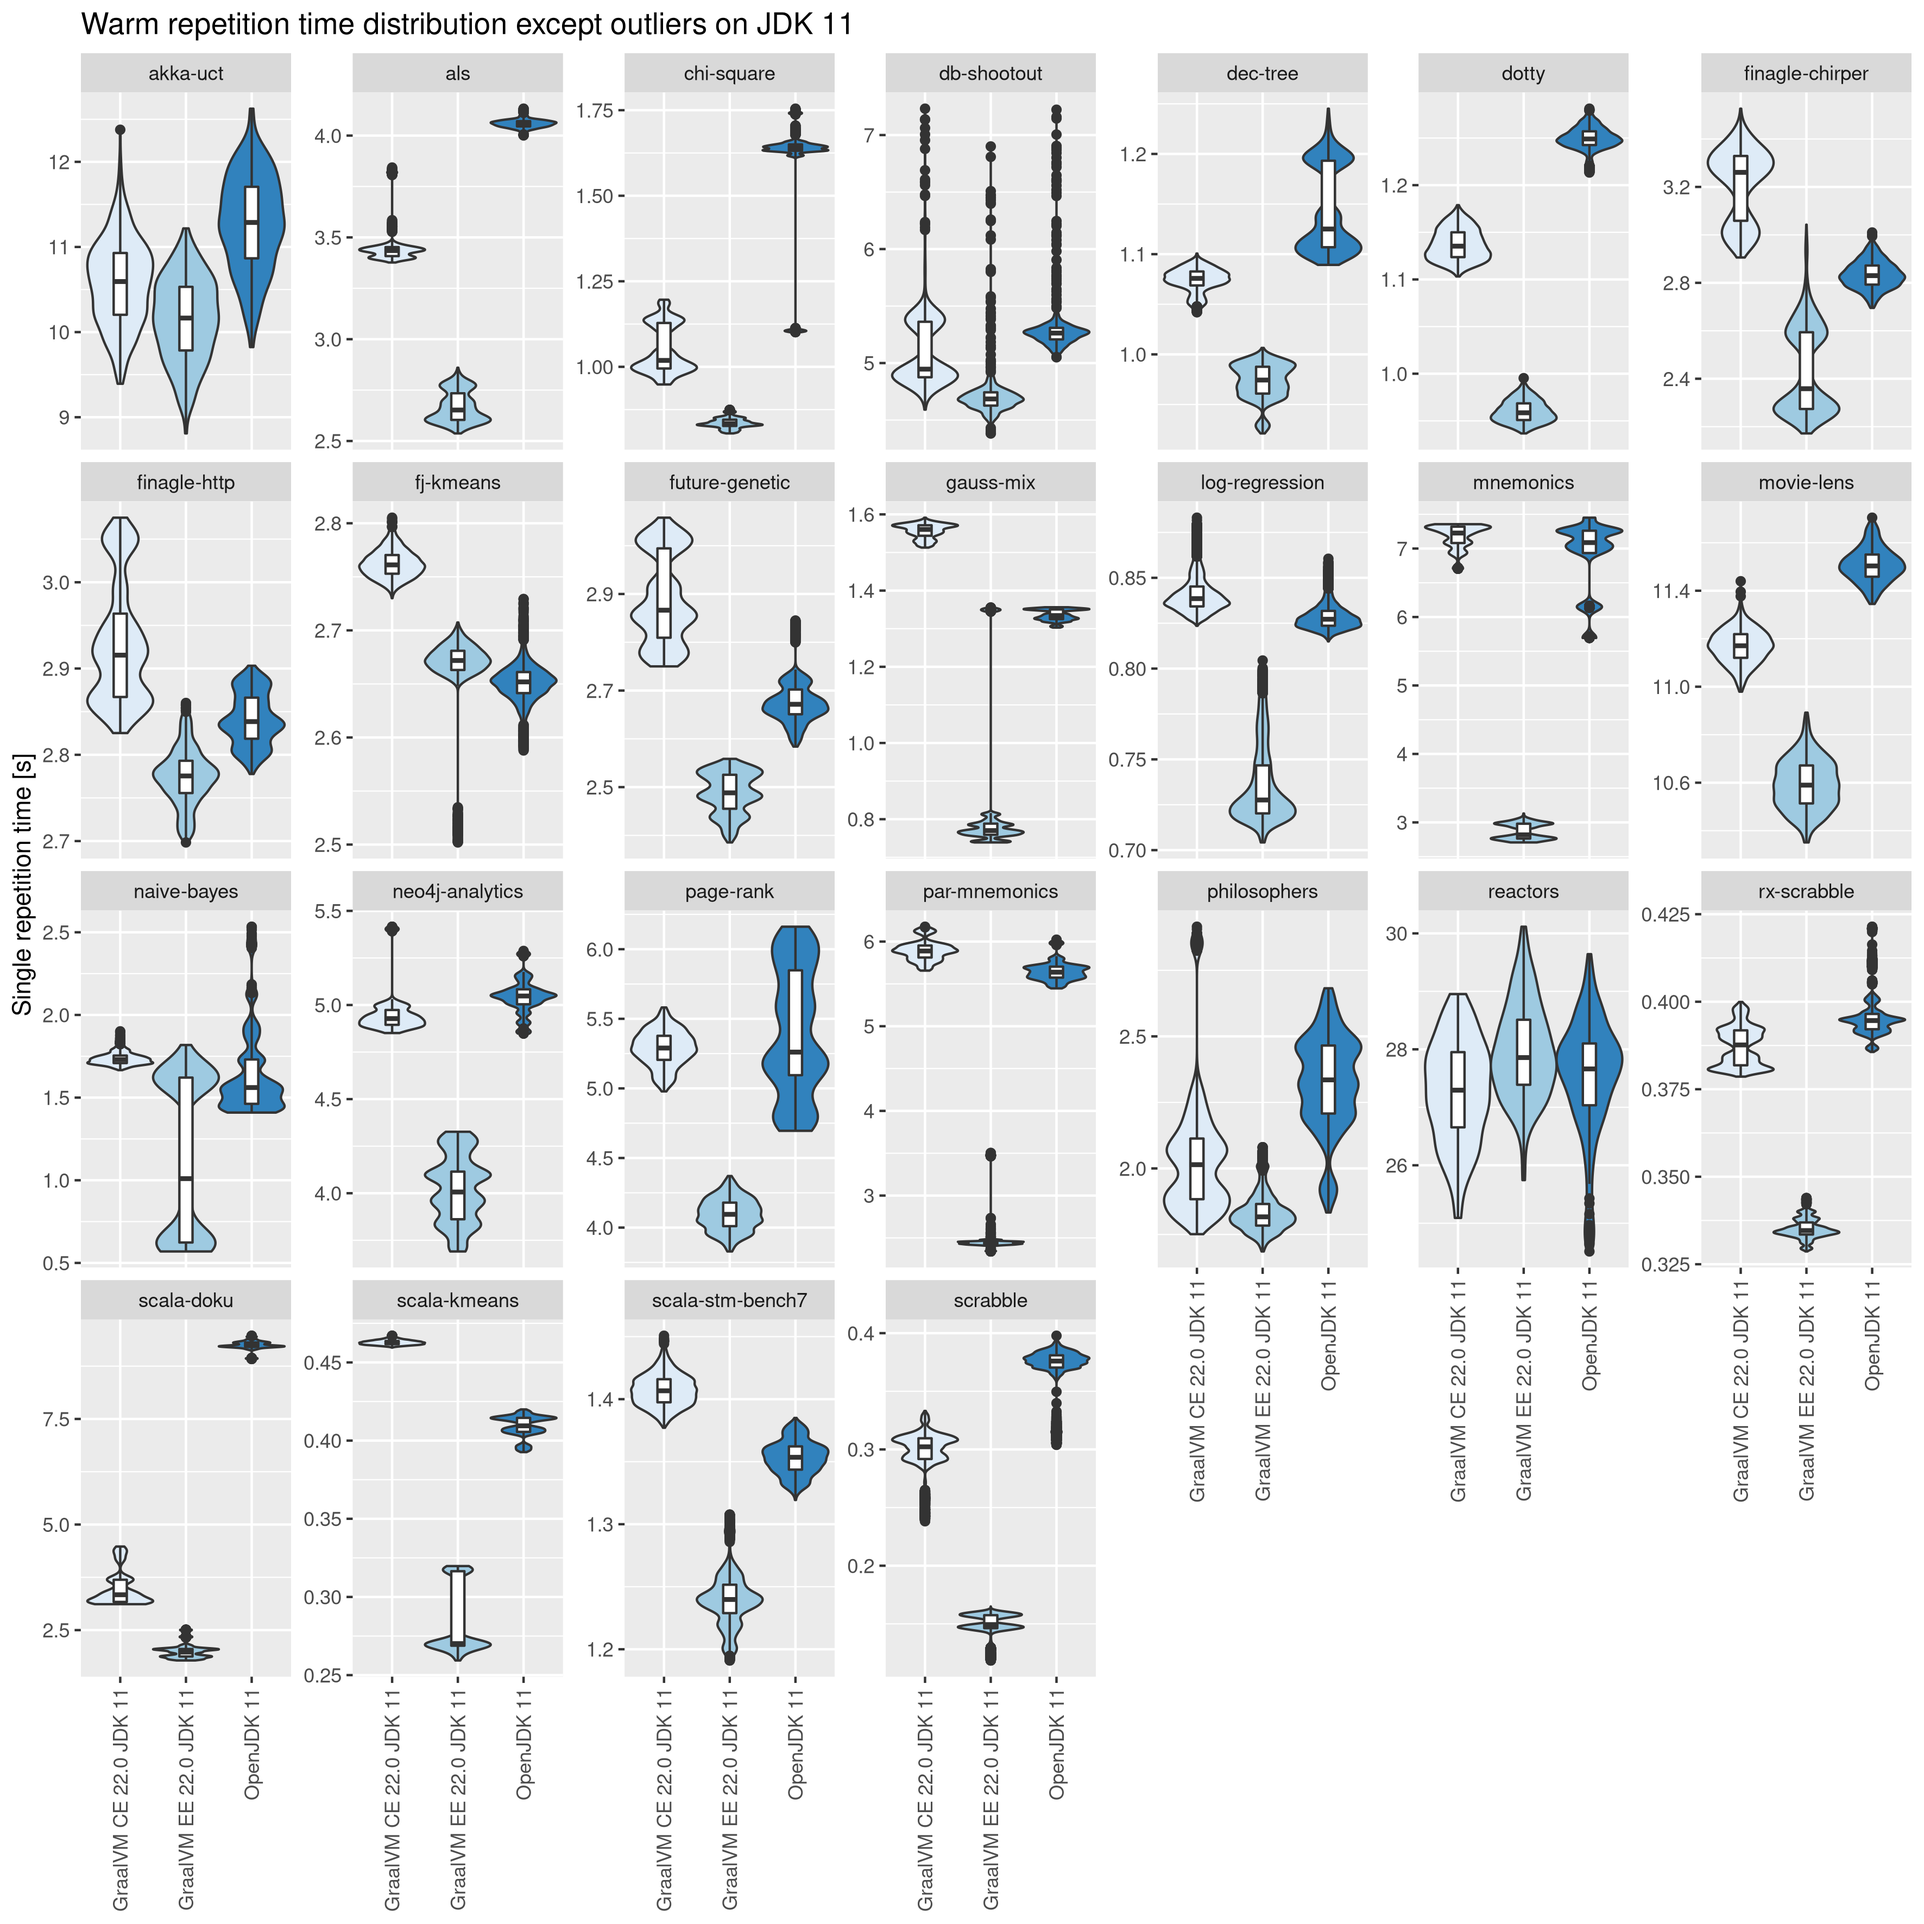
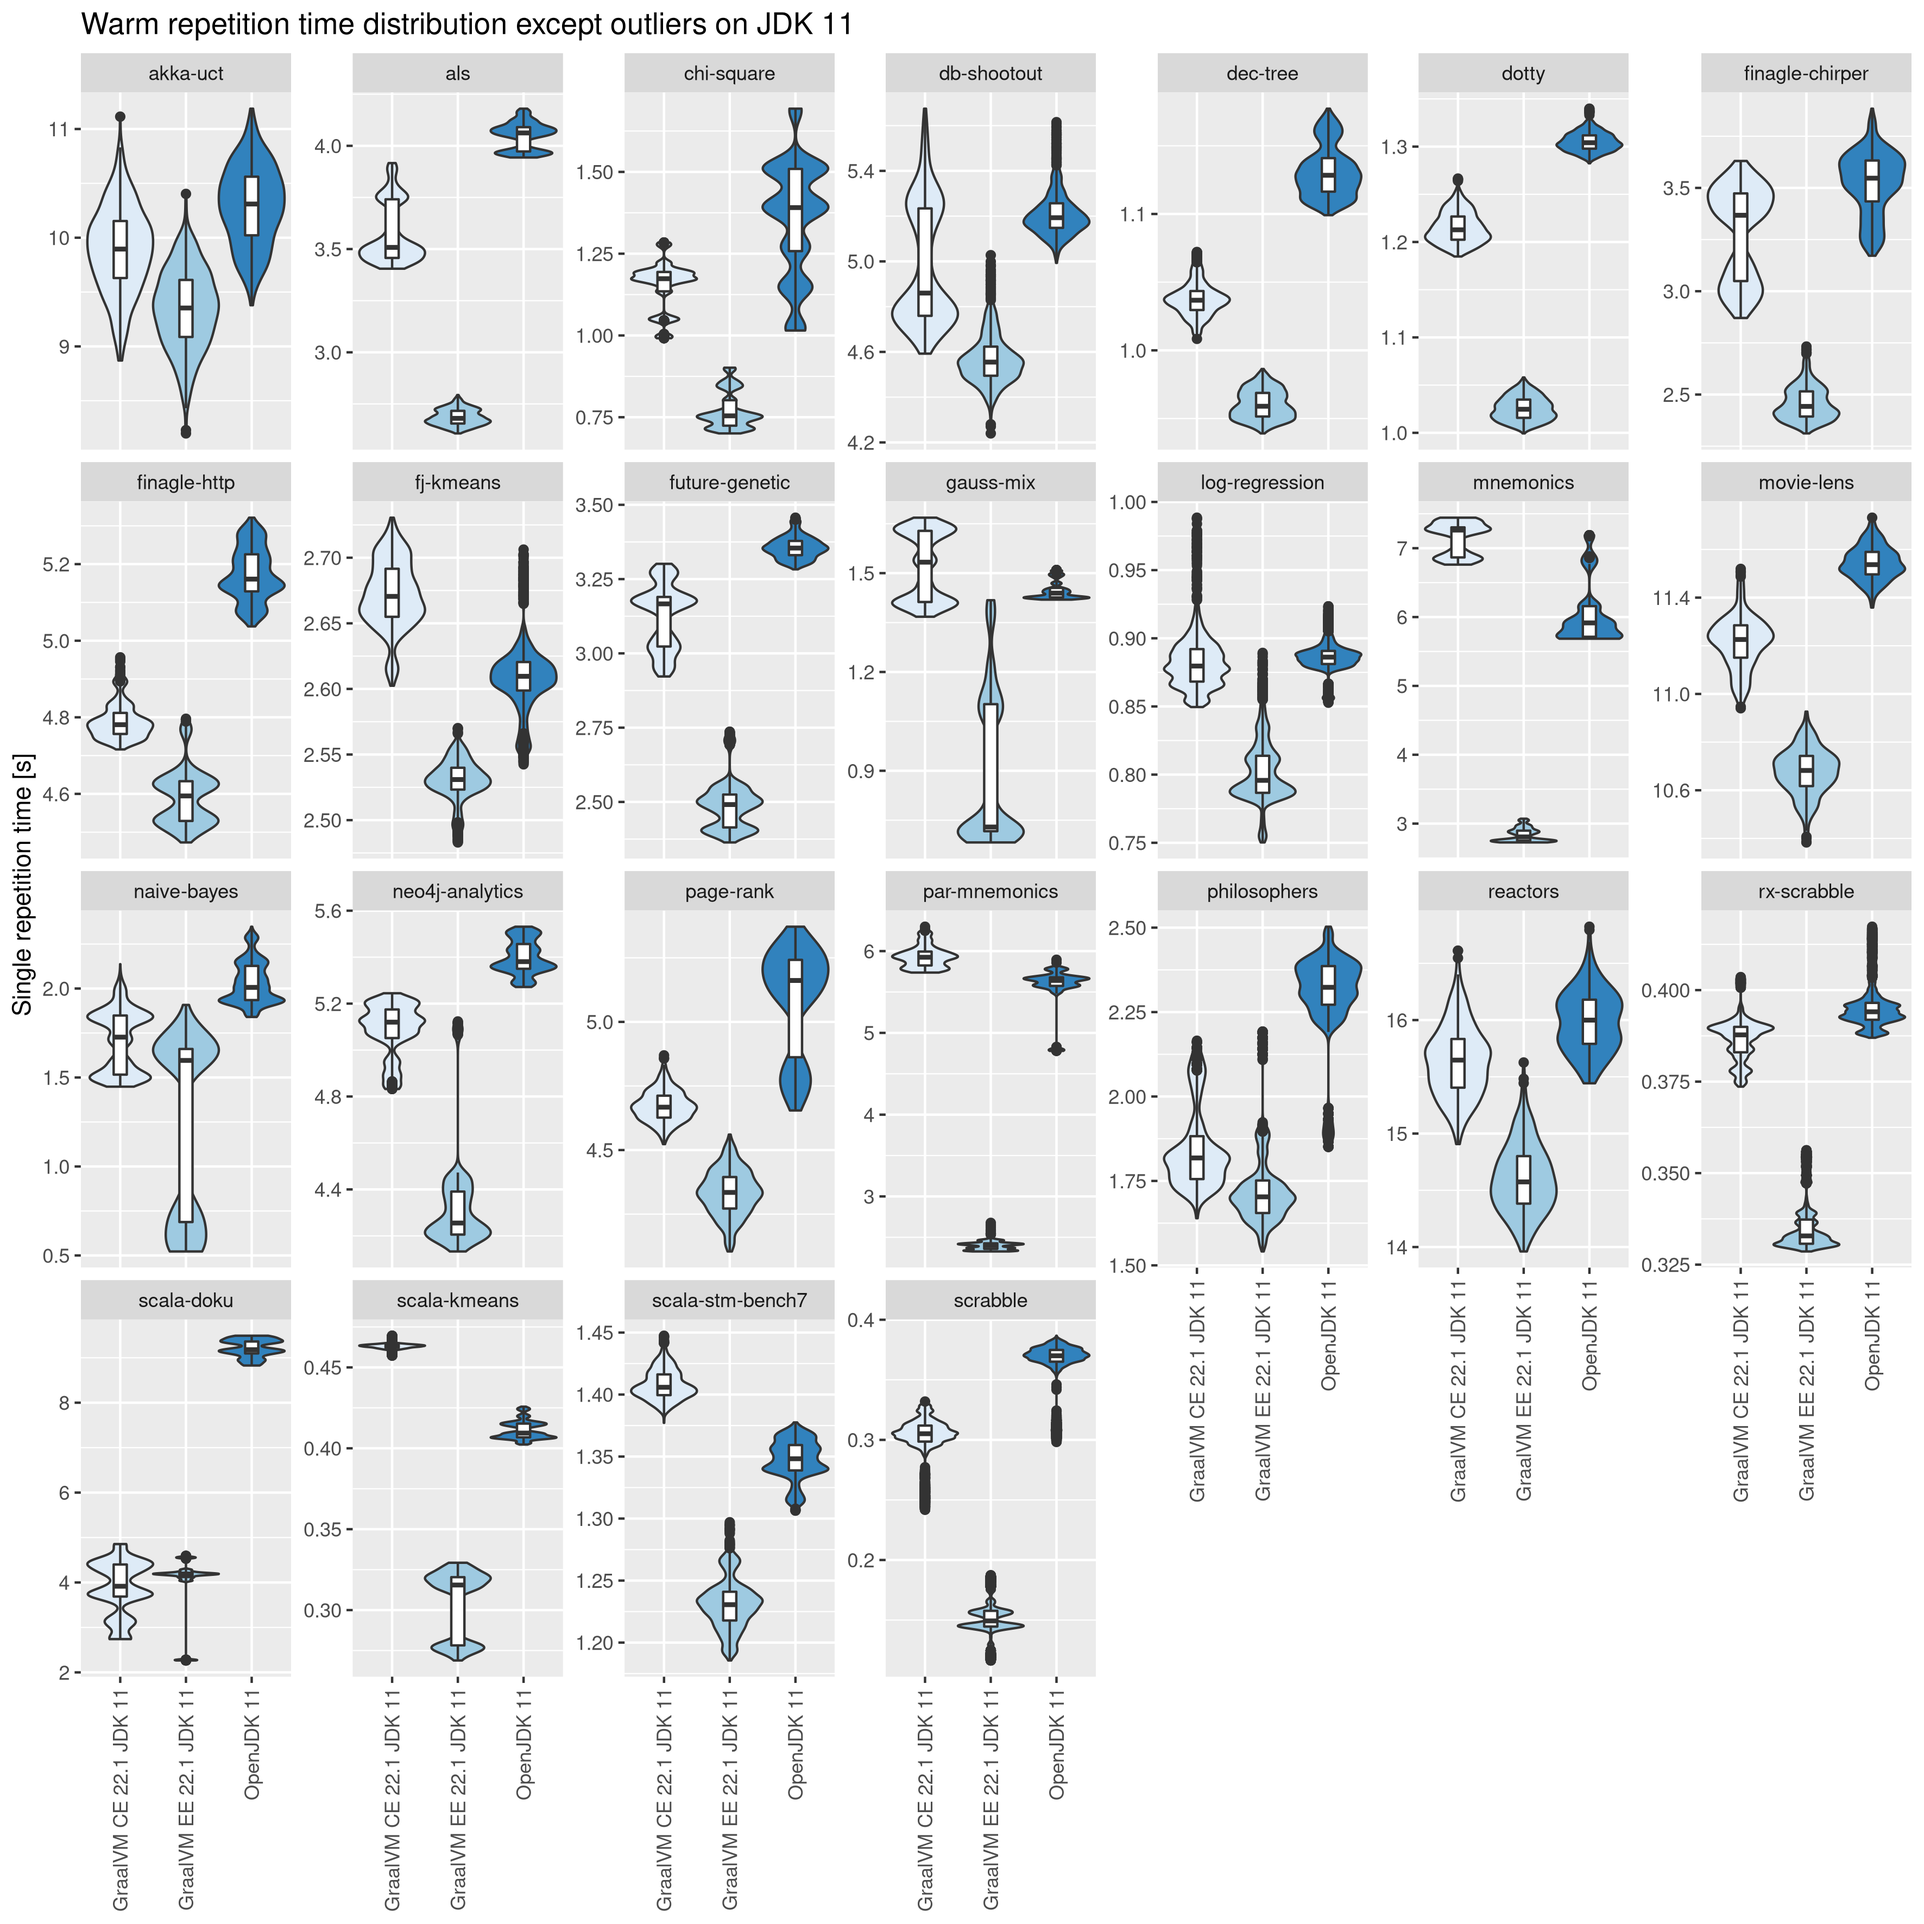
Updated results for GraalVM 22.1.0

diff --git a/README.md b/README.md
@@ -13,9 +13,9 @@ Please note that performance measurements depend on many complex factors and the
 
 ### Measurement information
 
-The current measurements were collected with Renaissance `e3c0a0a` on multiple
+The current measurements were collected with Renaissance `3eef1364a142426f508c29d1e6604b1ba3d7e23e` on multiple
 8 core Intel Xeon E5-2620 v4 machines at 2100 GHz with 64 GB RAM,
-running bare metal Fedora Linux 31 with kernel 5.3.8.
+running bare metal Fedora Linux 35 with kernel 5.16.11.
 
 Each benchmark was run multiple times, each run was executed in a new JVM instance and terminated after 10 minutes.
 The durations of all repetitions were collected and are included in the data,
@@ -31,32 +31,32 @@ The JVM implementations referenced in the results are:
 
 - **OpenJDK** is the GraalVM Community Edition JVM implementation run with `-XX:-EnableJVMCI -XX:-UseJVMCICompiler` to force the use of the default OpenJDK JIT compiler.
 
-- **GraalVM CE** is GraalVM Community Edition 22.0.0-dev.
+- **GraalVM CE** is GraalVM Community Edition 22.1.0.
 ```
 > java -version
-openjdk version "11.0.14" 2022-01-18
-OpenJDK Runtime Environment GraalVM CE 22.0.0-dev (build 11.0.14+8-jvmci-22.0-b03)
-OpenJDK 64-Bit Server VM GraalVM CE 22.0.0-dev (build 11.0.14+8-jvmci-22.0-b03, mixed mode, sharing)
+openjdk version "11.0.15" 2022-04-19
+OpenJDK Runtime Environment GraalVM CE 22.1.0 (build 11.0.15+10-jvmci-22.1-b06)
+OpenJDK 64-Bit Server VM GraalVM CE 22.1.0 (build 11.0.15+10-jvmci-22.1-b06, mixed mode, sharing)
 ```
 ```
 > java -version
-openjdk version "17.0.2" 2022-01-18
-OpenJDK Runtime Environment GraalVM CE 22.0.0-dev (build 17.0.2+8-jvmci-22.0-b03)
-OpenJDK 64-Bit Server VM GraalVM CE 22.0.0-dev (build 17.0.2+8-jvmci-22.0-b03, mixed mode, sharing)
+openjdk version "17.0.3" 2022-04-19
+OpenJDK Runtime Environment GraalVM CE 22.1.0 (build 17.0.3+7-jvmci-22.1-b06)
+OpenJDK 64-Bit Server VM GraalVM CE 22.1.0 (build 17.0.3+7-jvmci-22.1-b06, mixed mode, sharing)
 ```
 
-- **GraalVM EE** is GraalVM Enterprise Edition 22.0.0-dev.
+- **GraalVM EE** is GraalVM Enterprise Edition 22.1.0.
 ```
 > java -version
-java version "11.0.14" 2022-01-18 LTS
-Java(TM) SE Runtime Environment GraalVM EE 22.0.0-dev (build 11.0.14+8-LTS-jvmci-22.0-b03)
-Java HotSpot(TM) 64-Bit Server VM GraalVM EE 22.0.0-dev (build 11.0.14+8-LTS-jvmci-22.0-b03, mixed mode, sharing)
+java version "11.0.15" 2022-04-19 LTS
+Java(TM) SE Runtime Environment GraalVM EE 22.1.0 (build 11.0.15+8-LTS-jvmci-22.1-b05)
+Java HotSpot(TM) 64-Bit Server VM GraalVM EE 22.1.0 (build 11.0.15+8-LTS-jvmci-22.1-b05, mixed mode, sharing)
 ```
 ```
 > java -version
-java version "17.0.2" 2022-01-18 LTS
-Java(TM) SE Runtime Environment GraalVM EE 22.0.0-dev (build 17.0.2+8-LTS-jvmci-22.0-b03)
-Java HotSpot(TM) 64-Bit Server VM GraalVM EE 22.0.0-dev (build 17.0.2+8-LTS-jvmci-22.0-b03, mixed mode, sharing)
+java version "17.0.3" 2022-04-19 LTS
+Java(TM) SE Runtime Environment GraalVM EE 22.1.0 (build 17.0.3+8-LTS-jvmci-22.1-b05)
+Java HotSpot(TM) 64-Bit Server VM GraalVM EE 22.1.0 (build 17.0.3+8-LTS-jvmci-22.1-b05, mixed mode, sharing)
 ```
 
 #### Mean Repetition Times
